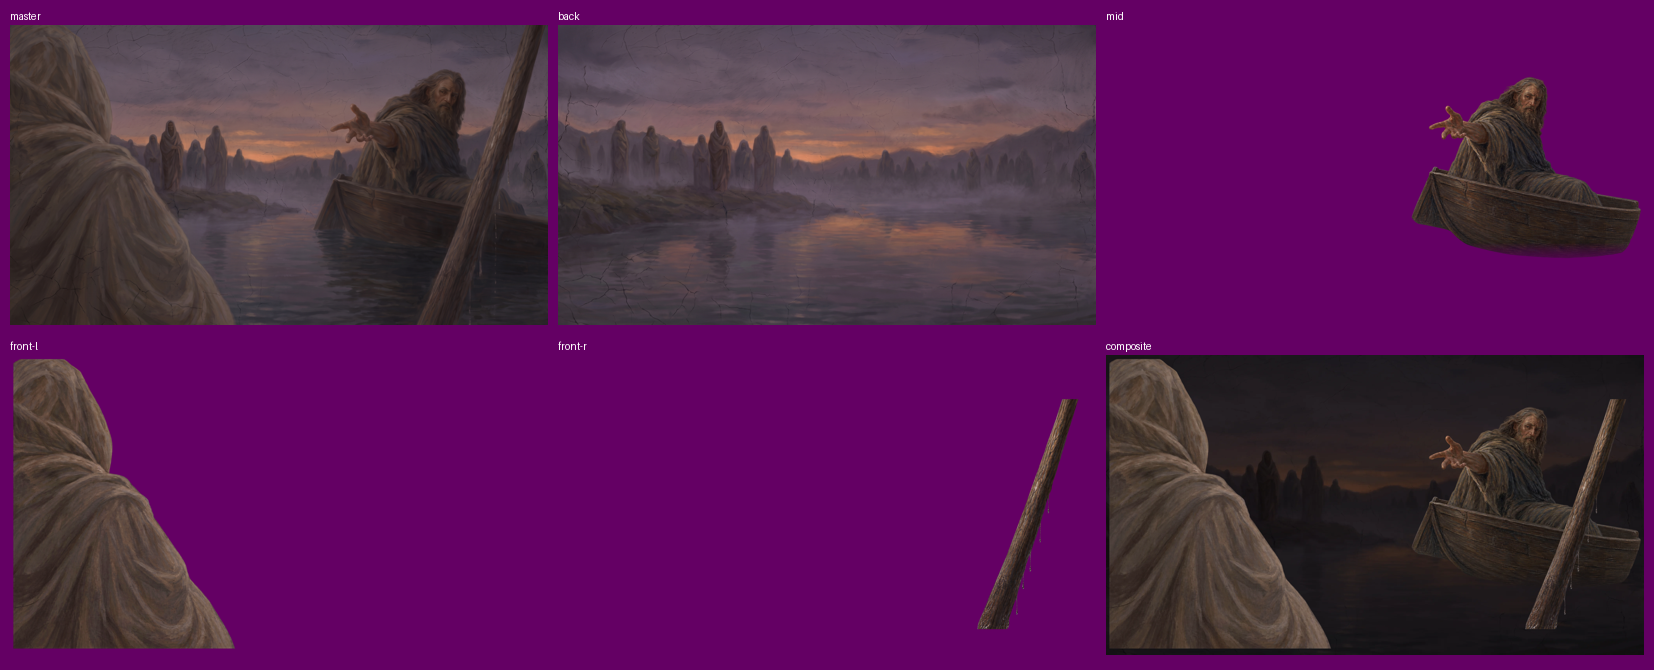
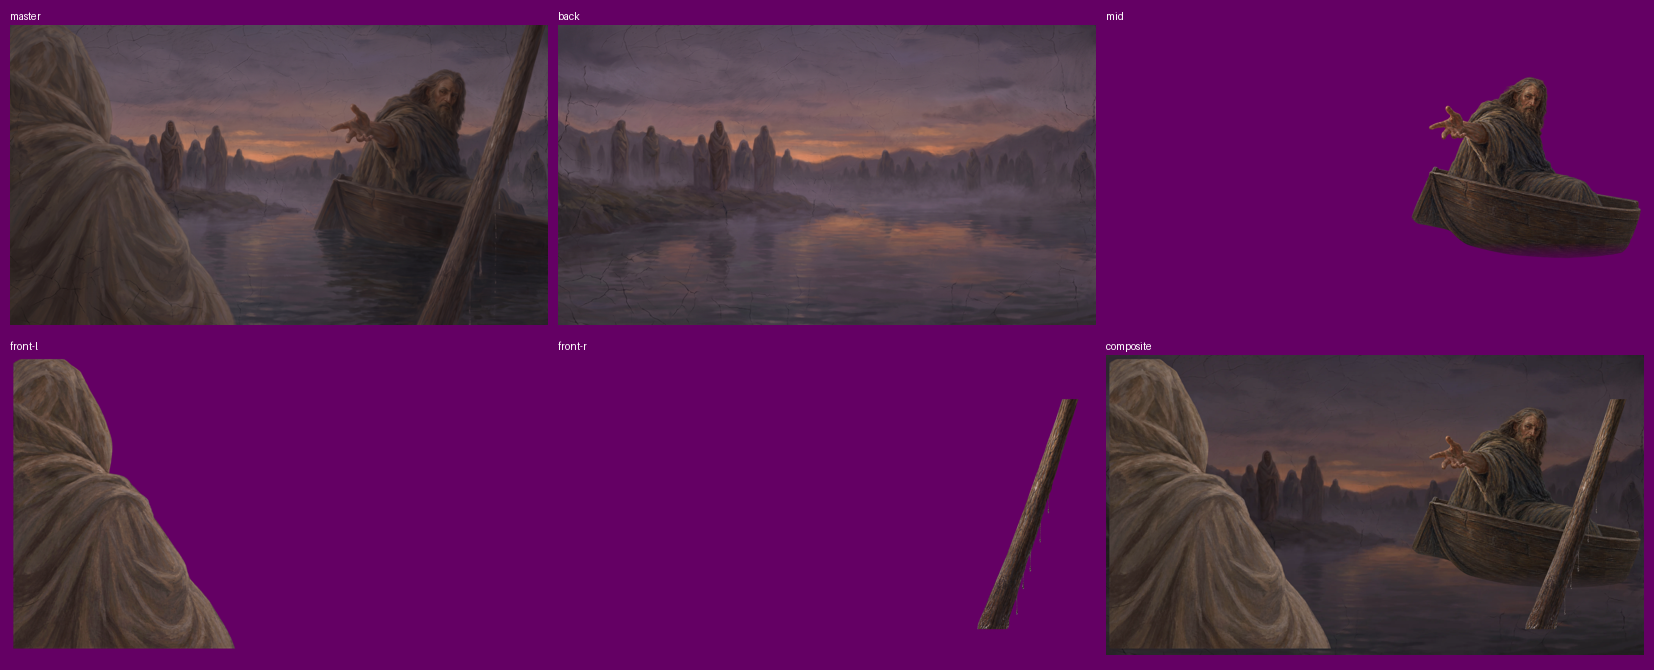
Hero far bank: brighter below the fade (70 % bake, full opacity, steeper mask)

Changed region(s): [[0.6784, 0.5075, 1.0, 0.9851]]

diff --git a/test-sandwich/main.js b/test-sandwich/main.js
@@ -35,7 +35,7 @@ const TURN_END = 1.5;     // frames 0→119 finish here
 const SCALE_MID = 0.6;    // at 1vh
 const SCALE_END = 0.5;    // at 1.5vh, then frozen
 const TINT = null;        // copper grade multiplied over every frame: '#ff9c55' (the painting's copper lifted ×1.15) — off, Dmitriy: "как печенька"
-const BACK_OPACITY = 0.7; // the far bank at rest — it recedes (Dmitriy tried .1: too little)
+const BACK_OPACITY = 1;   // the far bank at rest: its darkness now lives in the bake + the top fade mask
 
 const canvas = document.getElementById('coin');
 const ctx = canvas.getContext('2d');

diff --git a/test-sandwich/style.css b/test-sandwich/style.css
@@ -196,8 +196,8 @@ body {
 .plane--back img {
   transform: scale(1.2);
   /* Dmitriy: black at the very top, the far bank surfacing towards the bottom */
-  -webkit-mask-image: linear-gradient(to bottom, transparent 0%, rgba(0,0,0,.35) 40%, #000 78%);
-  mask-image: linear-gradient(to bottom, transparent 0%, rgba(0,0,0,.35) 40%, #000 78%);
+  -webkit-mask-image: linear-gradient(to bottom, transparent 0%, rgba(0,0,0,.25) 30%, #000 62%);
+  mask-image: linear-gradient(to bottom, transparent 0%, rgba(0,0,0,.25) 30%, #000 62%);
 }
 .plane--mid   { z-index: 3; }
 .plane--front { z-index: 7; }

diff --git a/tools/hero-layers.py b/tools/hero-layers.py
@@ -20,7 +20,7 @@ ROOT = os.path.dirname(os.path.dirname(os.path.abspath(__file__)))
 SRC = os.path.join(ROOT, 'assets', 'src', 'hero2')
 OUT = os.path.join(ROOT, 'assets', 'img', 'hero')
 SAT = 0.95
-DARKEN = {'back': 0.65, 'mid': 0.05, 'front-l': 0.0, 'front-r': 0.0}   # per depth; the far bank dark (35 %) under a top-to-bottom fade mask (CSS), the coin the brightest thing
+DARKEN = {'back': 0.3, 'mid': 0.05, 'front-l': 0.0, 'front-r': 0.0}   # per depth; the far bank dark (35 %) under a top-to-bottom fade mask (CSS), the coin the brightest thing
 FADE_MID = (0.86, 0.97)   # the boat's hull sinks into the bg water (fractions of the boat's own alpha bbox height)
 
 master = Image.open(os.path.join(SRC, 'master-v1.png')).convert('RGB')
